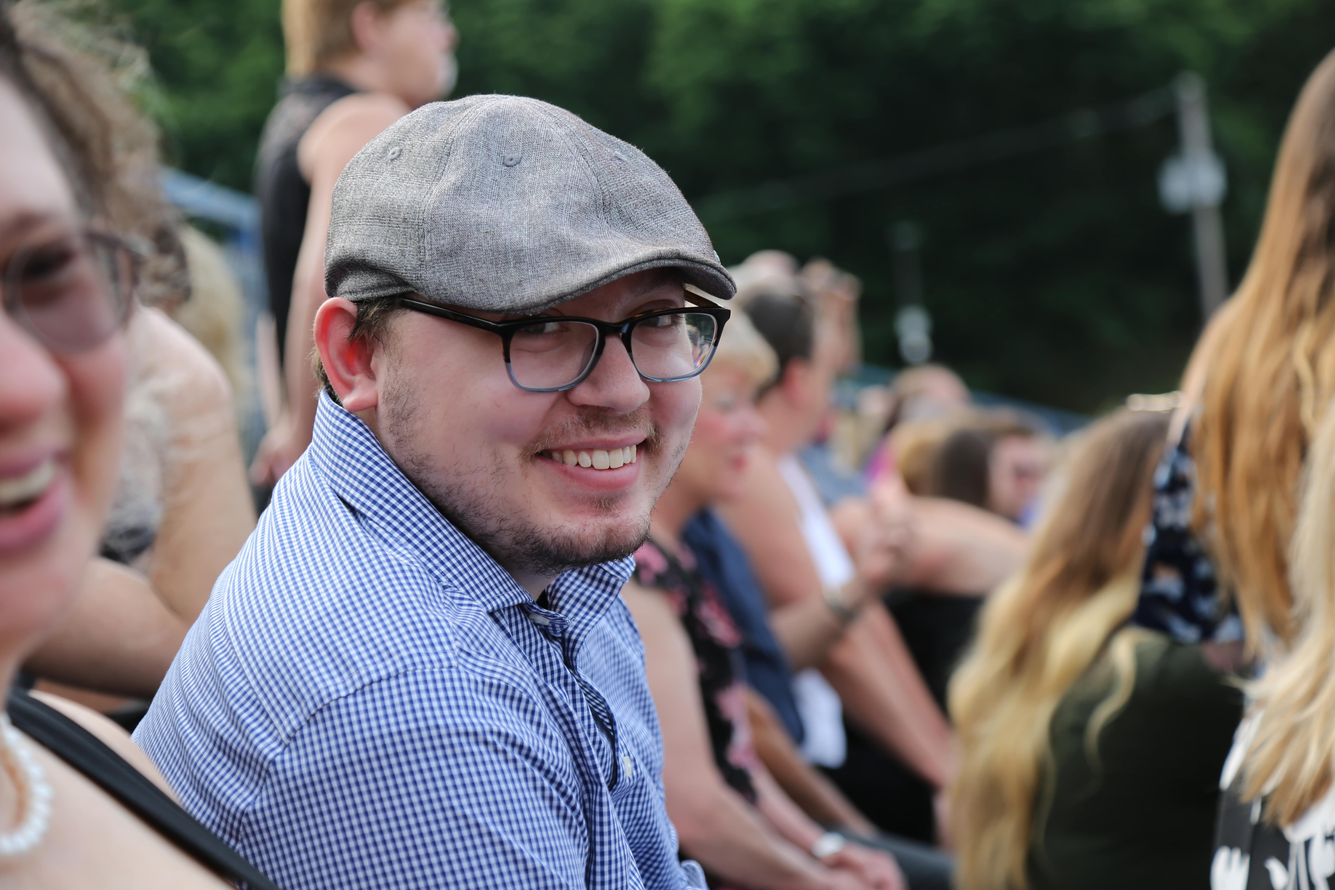
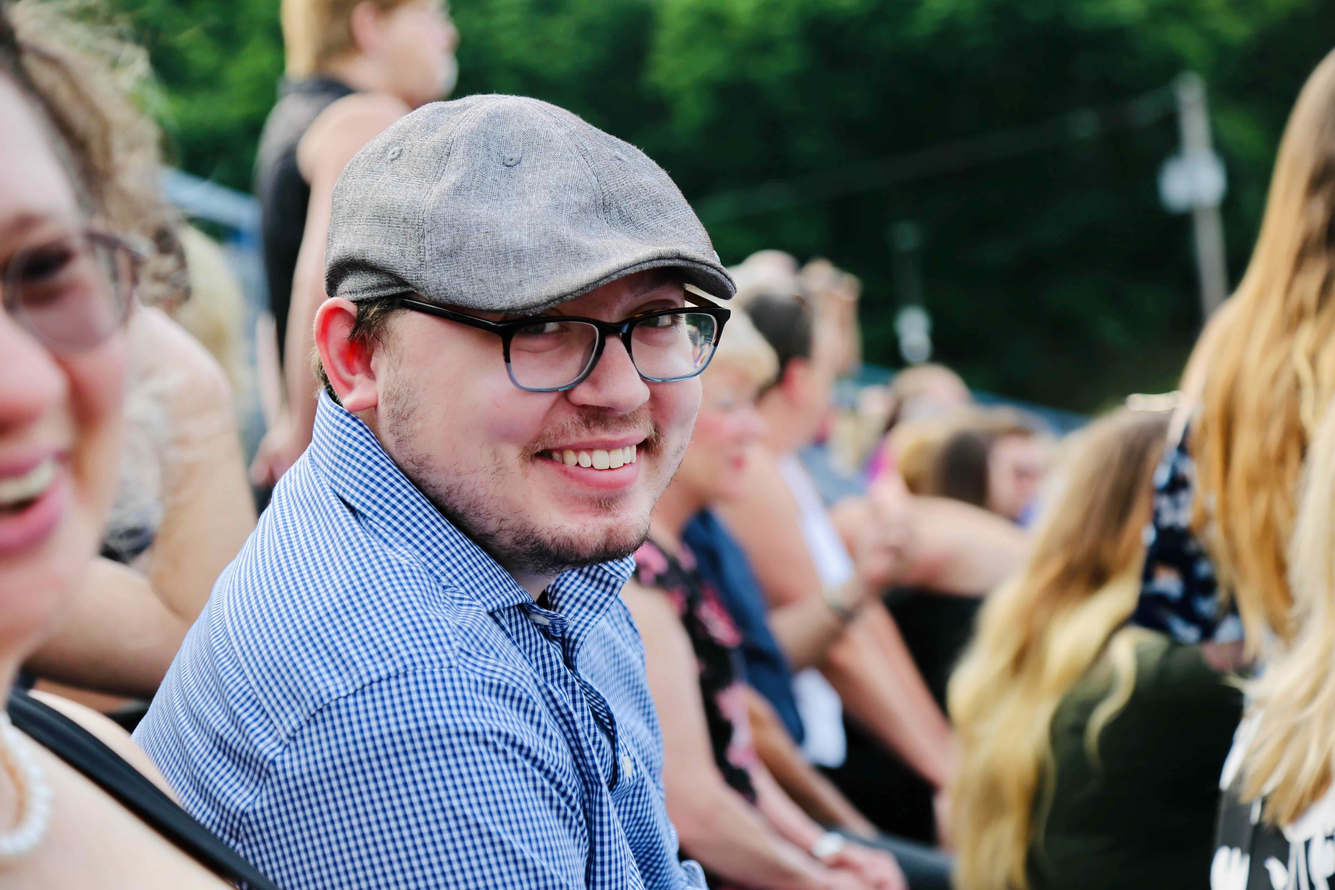
Update photos with lighting edits and staff headshot.

diff --git a/pictures/index.html b/pictures/index.html
@@ -17,6 +17,9 @@
 <img src="./nkachur-portrait-2023-min.jpeg" alt="Photo of Nicholas Kachur in 2023.">
 <p>Taken in 2023.</p>
 
+<img src="./nkachur-pro-headshot-2023-min.jpeg" alt="Photo of Nicholas Kachur in 2023.">
+<p>Taken in 2023.</p>
+
 <img src="./nkachur-portrait-2022-min.jpeg" alt="Photo of Nicholas Kachur in 2022.">
 <p>Taken in 2022.</p>
 
